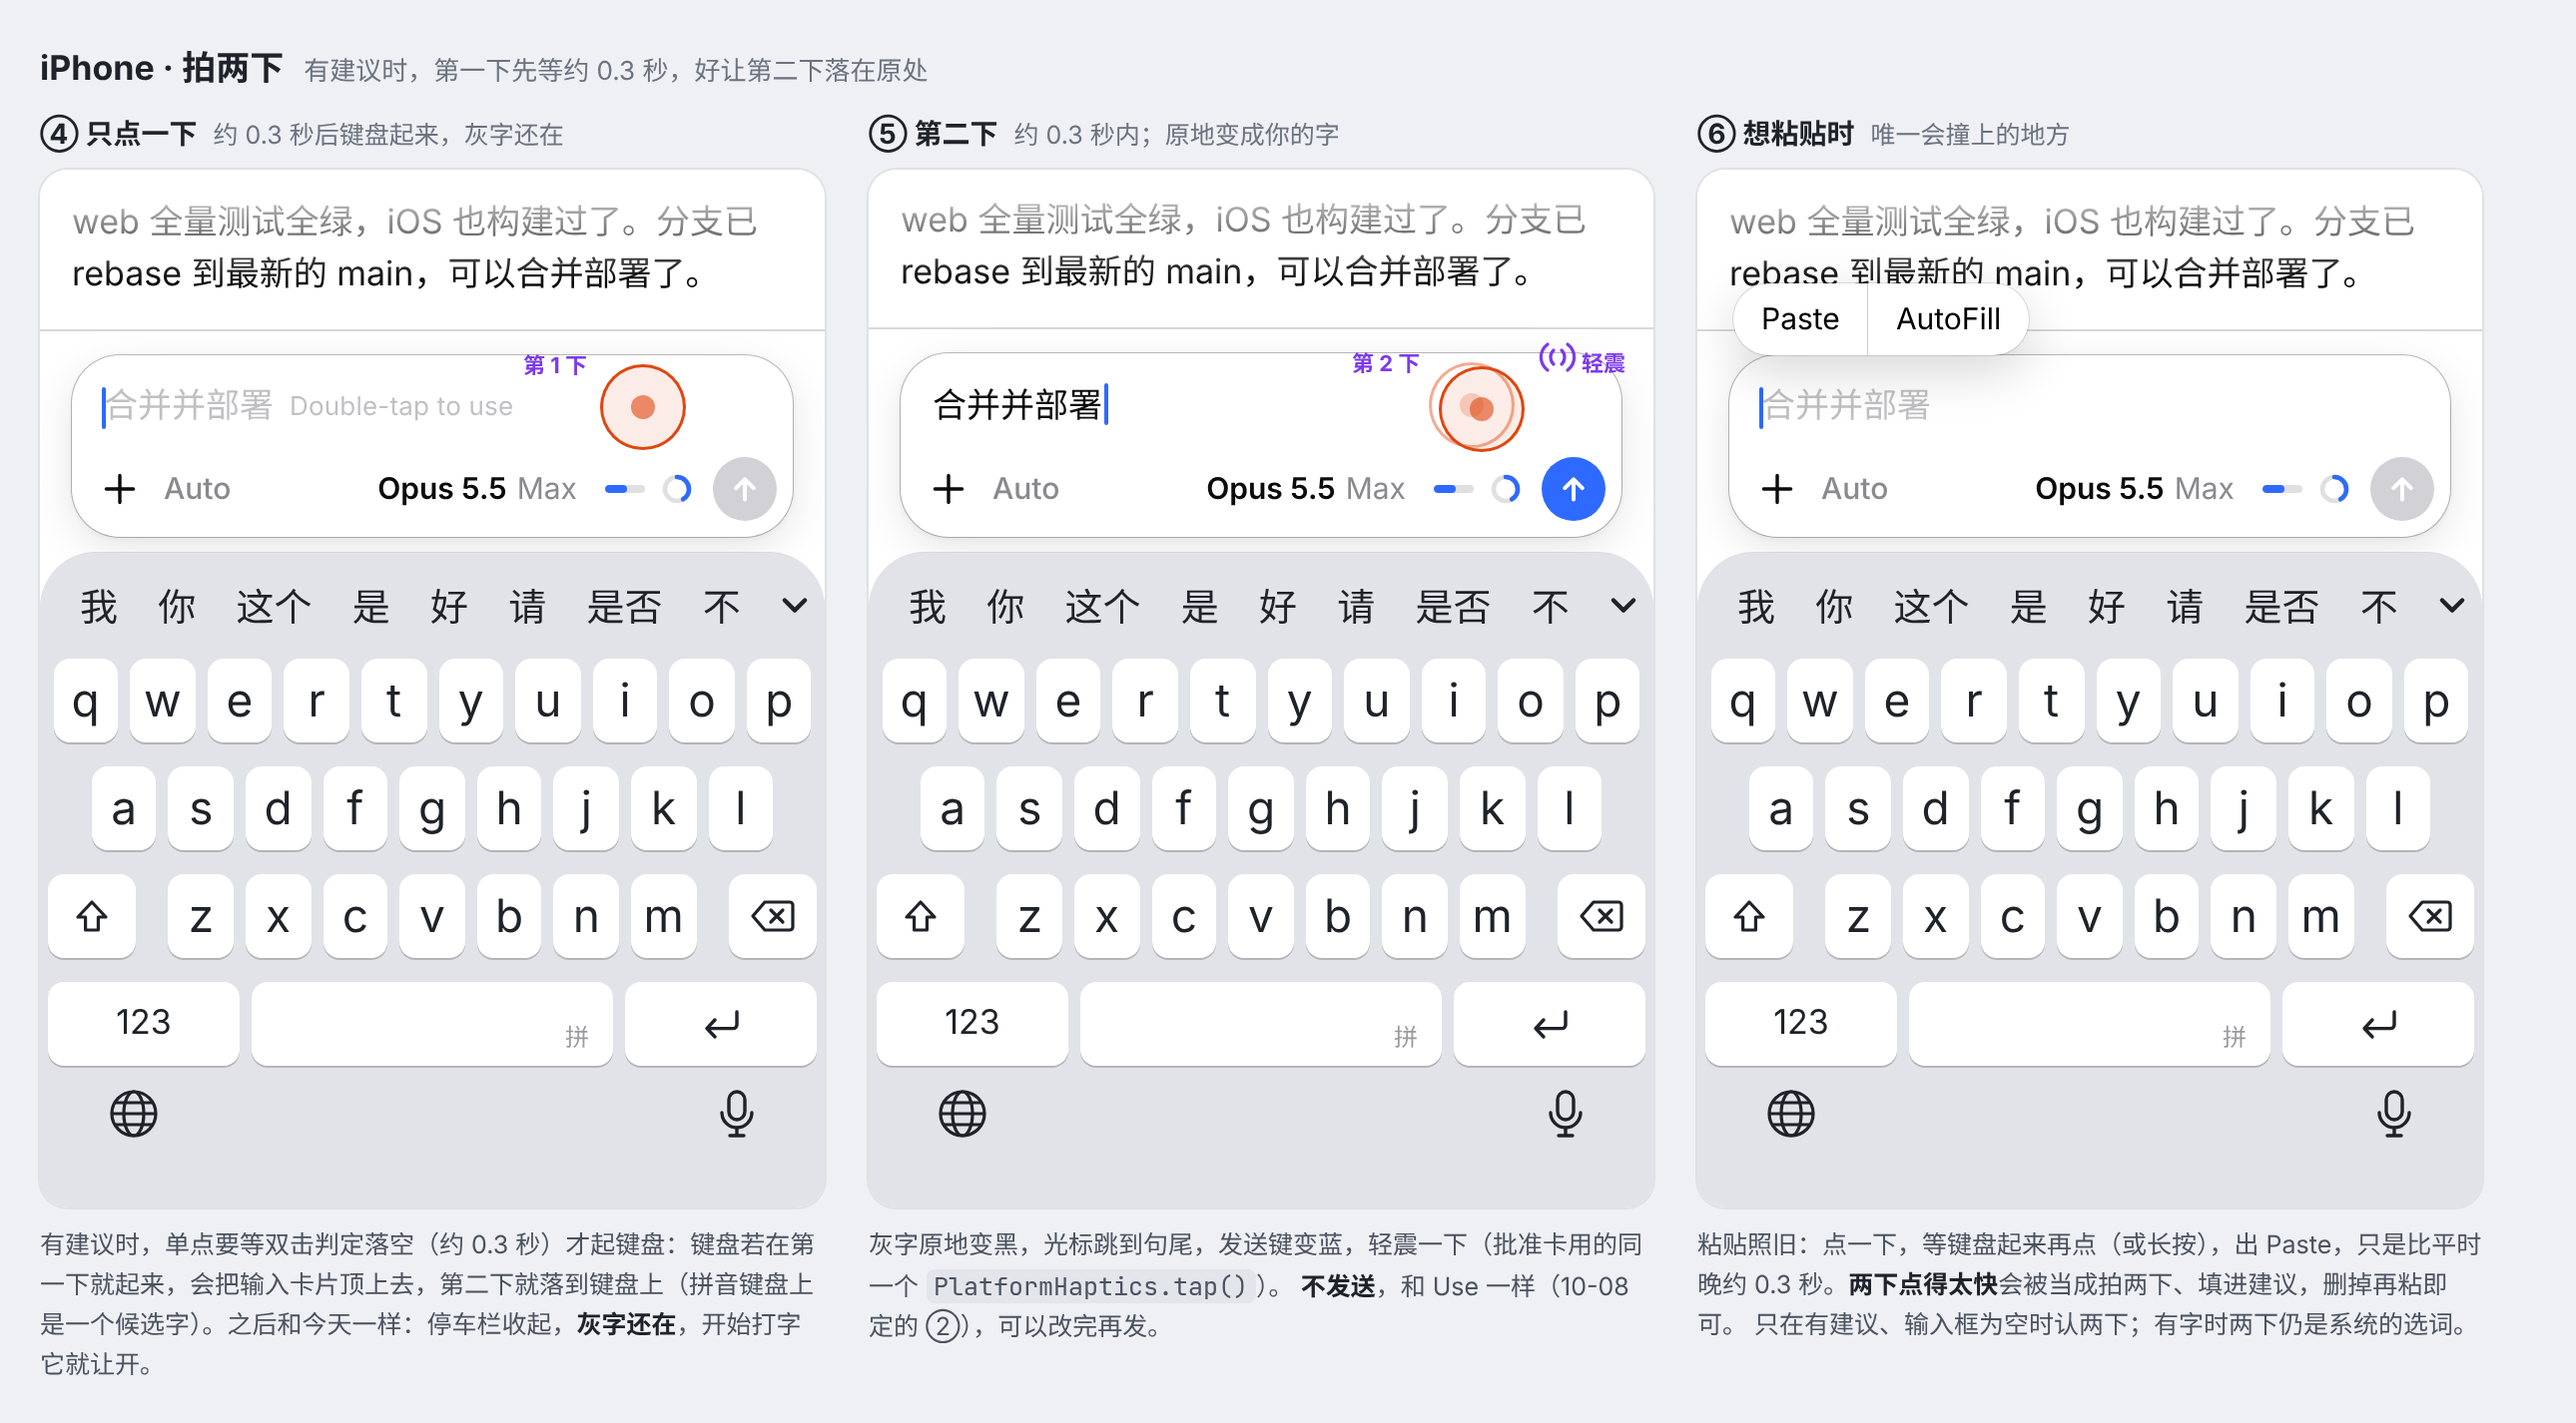
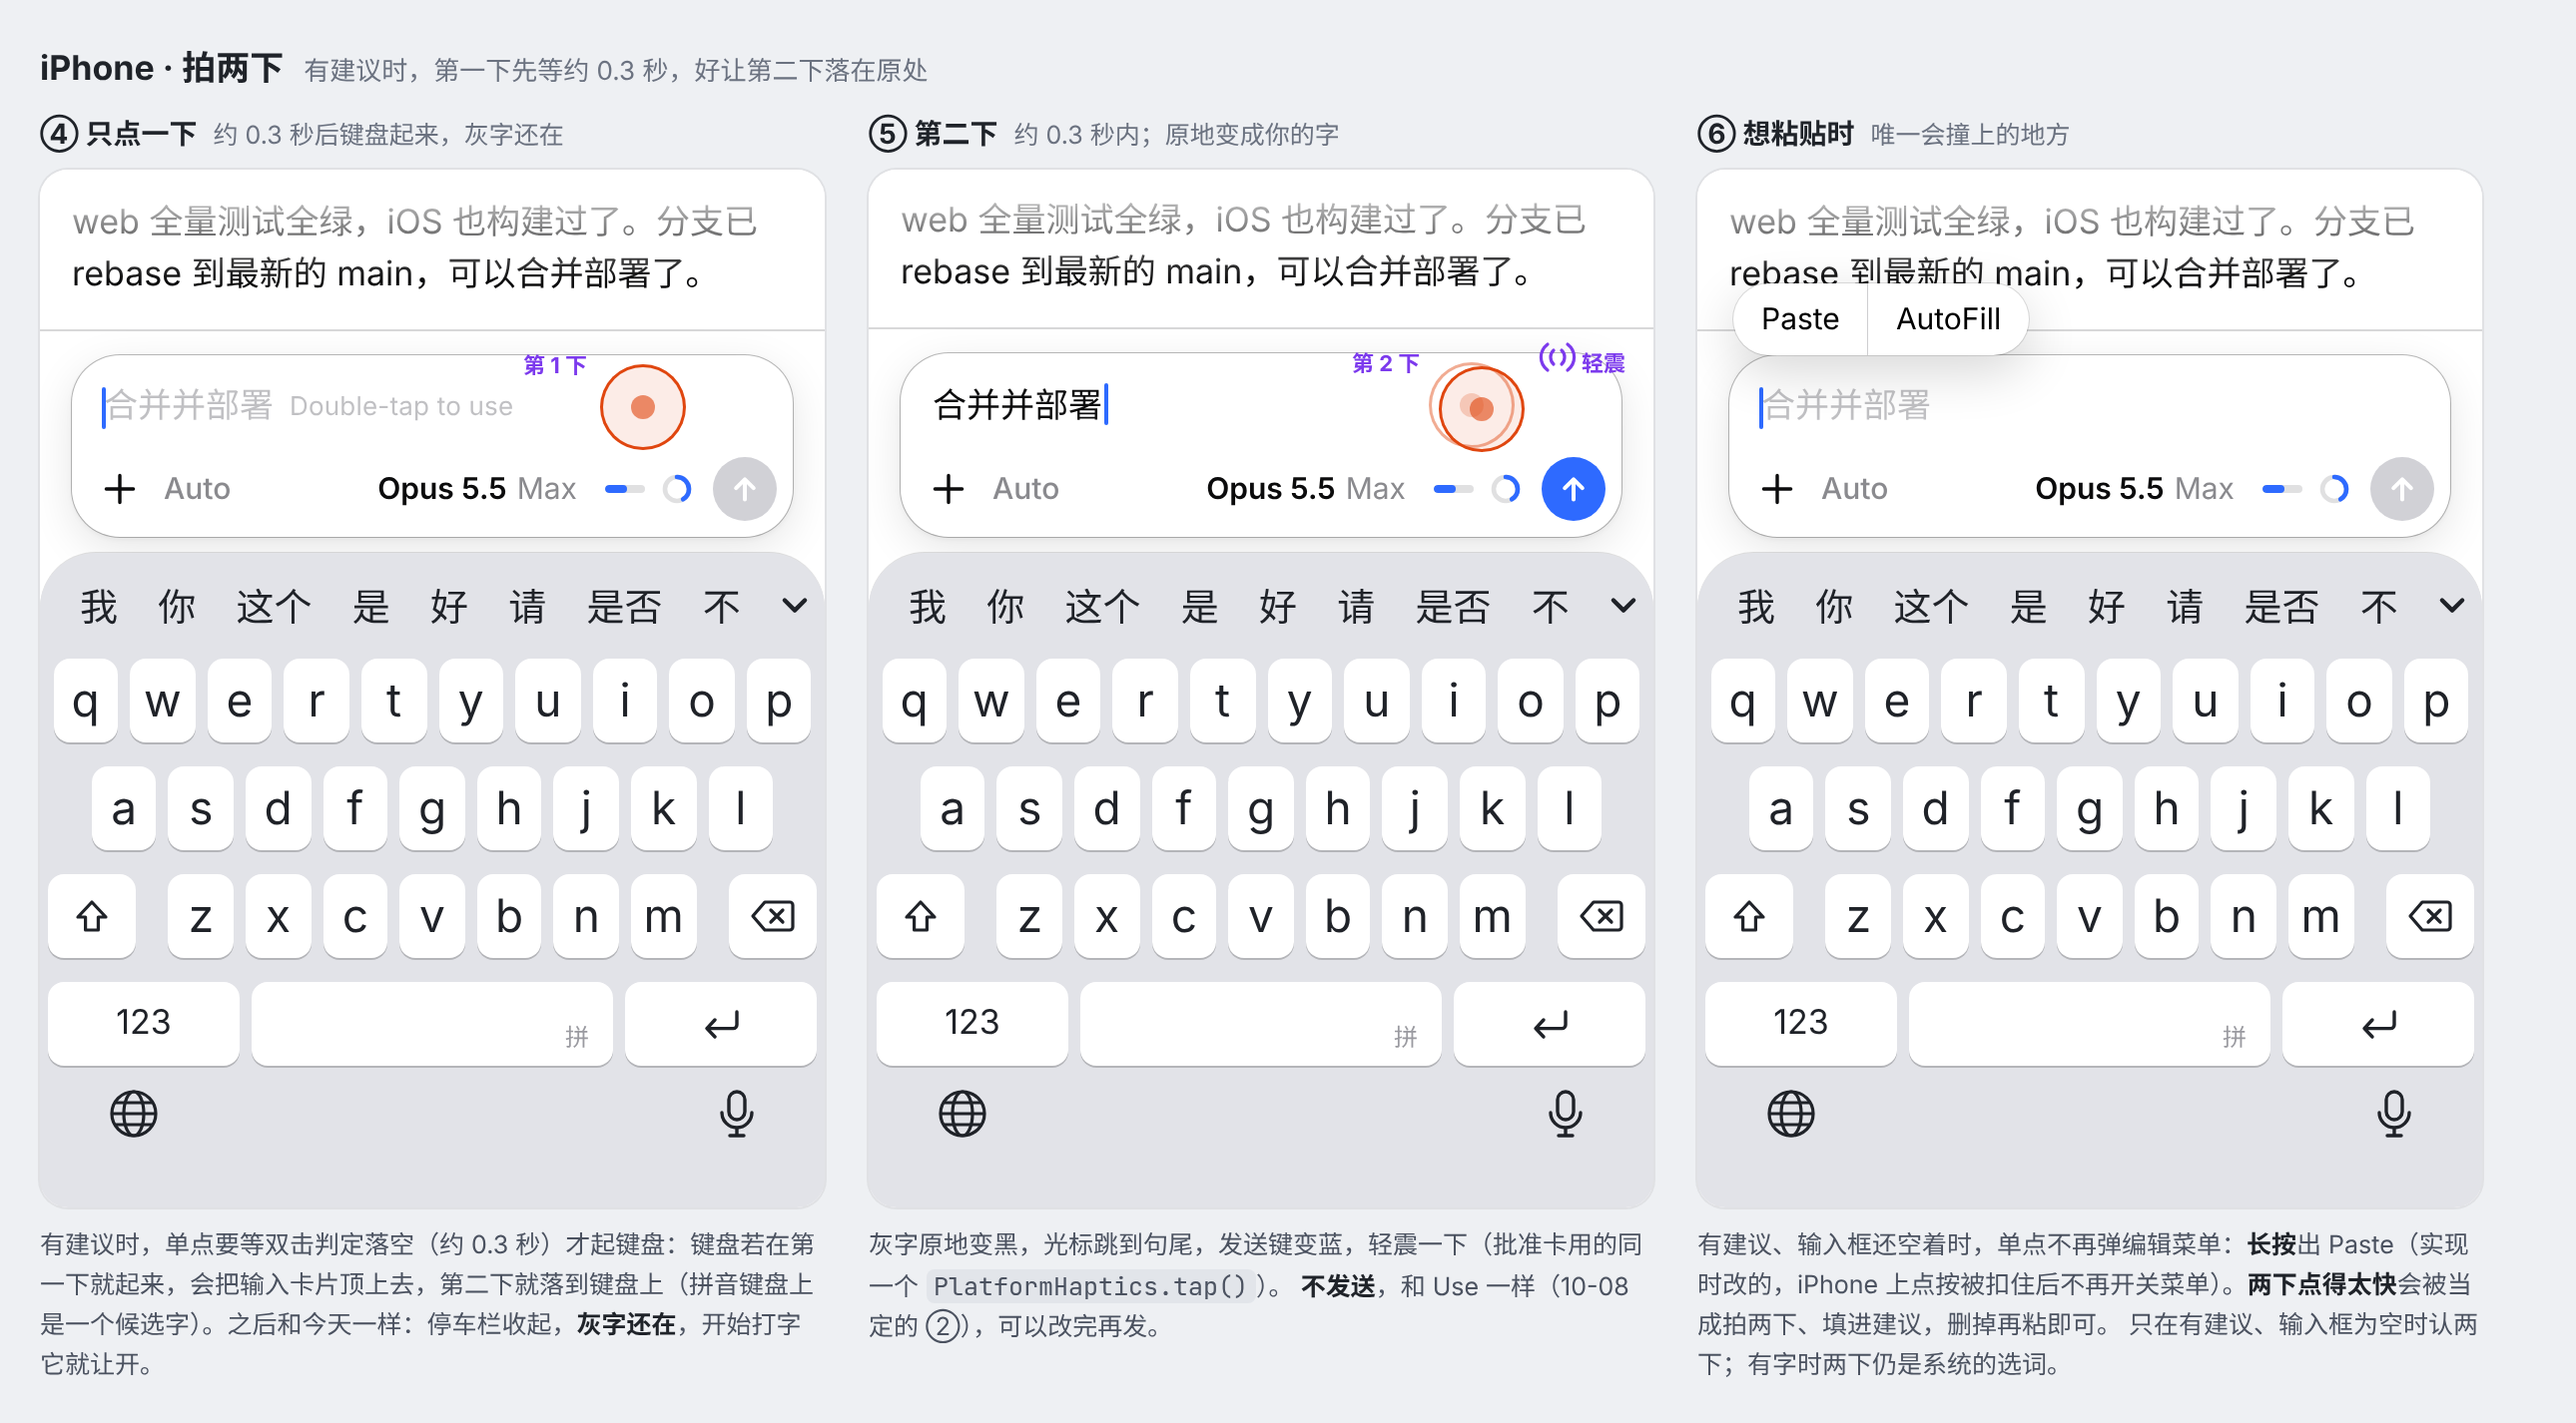
docs(composer): paste into the empty composer with a press and hold while a guess shows
The CI probe listed an editing UITextView's gestures on iOS 26: its single
tap is a UITextMultiTapRecognizer, not a UITapGestureRecognizer, and it is
what raced the double-tap. Held back by the double-tap it still focuses
the field but no longer toggles the edit menu, so while a suggestion is
offered Paste into the empty field is a press and hold. The code comment,
design doc §4.1/§9 and the board's ⑥ say so.

Changed region(s): [[0.6512, 0.864, 0.9612, 0.9874]]

diff --git a/src/macos/OrbitApp/Sources/OrbitApp/Views/ComposerView.swift b/src/macos/OrbitApp/Sources/OrbitApp/Views/ComposerView.swift
@@ -1639,10 +1639,11 @@ private struct GrowingTextEditor: UIViewRepresentable {
         // first tap that raised the keyboard at once would lift the composer with it, and the second
         // would land on the keyboard (typing a key or a candidate) instead of the field; a second tap
         // the field took too would drop the caret into the words just filled in, or open the edit
-        // menu. So the keyboard comes up a double-tap interval late then, and a tap on a field already
-        // being edited (the edit menu, Paste) lands as late. An editing field's taps are not all
-        // `UITapGestureRecognizer`s — its tap-and-a-half selection gesture begins on the second press,
-        // and won the race on a CI run — so any of its gestures named for a tap waits too.
+        // menu. So the keyboard comes up a double-tap interval late then. The field's own taps are not
+        // all `UITapGestureRecognizer`s — on iOS 26 its single tap is a `UITextMultiTapRecognizer`,
+        // which won the second tap on a CI run — so any of its gestures named for a tap waits too.
+        // Held back, the multi-tap still focuses the field but no longer toggles the edit menu: while a
+        // guess is on offer, Paste into the empty field is a press and hold (the loupe's, untouched).
         func gestureRecognizer(_ gestureRecognizer: UIGestureRecognizer,
                                shouldBeRequiredToFailBy other: UIGestureRecognizer) -> Bool {
             guard gestureRecognizer === doubleTap, let field = gestureRecognizer.view,

diff --git a/docs/mocks/prompt-suggestion-double-tap/01-board.html b/docs/mocks/prompt-suggestion-double-tap/01-board.html
@@ -374,7 +374,7 @@
       </div></div>
       <div data-tpl="keyboard"></div>
     </div>
-    <div class="legend">粘贴照旧：点一下，等键盘起来再点（或长按），出 Paste，只是比平时晚约 0.3 秒。<b>两下点得太快</b>会被当成拍两下、填进建议，删掉再粘即可。
+    <div class="legend">有建议、输入框还空着时，单点不再弹编辑菜单：<b>长按</b>出 Paste（实现时改的，iPhone 上点按被扣住后不再开关菜单）。<b>两下点得太快</b>会被当成拍两下、填进建议，删掉再粘即可。
       只在有建议、输入框为空时认两下；有字时两下仍是系统的选词。</div>
   </div>
 </div>
@@ -493,8 +493,8 @@
     <h3 class="more">代价</h3>
     <ul>
       <li>手势看不见：靠提示小字教一次，每台设备各一次（记在本机）</li>
-      <li>有建议时单点晚约 0.3 秒（起键盘、Paste），否则第二下会落到刚起来的键盘上（④）</li>
-      <li>想粘贴时两下点太快，会填进建议（⑥）</li>
+      <li>有建议时单点晚约 0.3 秒起键盘，否则第二下会落到刚起来的键盘上（④）</li>
+      <li>有建议、输入框为空时，粘贴改为长按（⑥）</li>
       <li>读屏走动作、不走手势（⑨）</li>
     </ul>
   </div>

diff --git a/src/macos/OrbitKit/Tests/OrbitKitTests/PromptSuggestionTests.swift b/src/macos/OrbitKit/Tests/OrbitKitTests/PromptSuggestionTests.swift
@@ -181,7 +181,7 @@ final class PromptSuggestionTests: XCTestCase {
         XCTAssertTrue(field.contains("context.coordinator.doubleTap?.isEnabled = suggestion != nil"),
                       "no guess, no double-tap: the field's taps are its own, with no wait")
         XCTAssertTrue(field.contains("return other is UITapGestureRecognizer || NSStringFromClass(type(of: other)).contains(\"Tap\")"),
-                      "with one, the field's taps wait on the double-tap, its tap-and-a-half selection gesture included")
+                      "with one, the field's taps wait on the double-tap, UIKit's multi-tap text gesture included")
         XCTAssertTrue(field.contains("shouldRecognizeSimultaneouslyWith other: UIGestureRecognizer) -> Bool {\n            gestureRecognizer === doubleTap"),
                       "and nothing of the field's that begins stops it")
         XCTAssertTrue(field.contains("UIAccessibilityCustomAction(name: \"Use suggestion\")"), "VoiceOver's way to take it")

diff --git a/docs/prompt-suggestions-design.md b/docs/prompt-suggestions-design.md
@@ -238,8 +238,9 @@ transcript reducer 里加三行，按 seq 顺序回放，结果天然正确：
 - **拍两下**：在输入框那一行拍两下，把文字填进输入框，光标放在末尾，键盘起来，轻震一下；**不发送**。
   可以接着改，也可以直接点发送。有建议时，输入框自己的点按要等双击判定落空（约 0.3 秒）才生效：键盘若在第一下
   就起来，会把输入卡片一起顶上去，第二下就落到键盘上了（拼音键盘上是一个候选字）。所以只点一下时键盘晚约 0.3 秒
-  起来，照旧是自己打字；输入框已经在编辑时，单点（光标、Paste 菜单）也晚这么多：想粘贴就点一下、等一下再点，
-  或者长按。两下点得太快会被当成拍两下、填进建议。效果图 ④ 画的是「第一下就起键盘」，实现时因为上面的原因改了。
+  起来，照旧是自己打字。输入框已经在编辑、又还空着时，单点不再弹编辑菜单（UIKit 的点按手势被扣住后只管聚焦，
+  不再开关菜单），想粘贴就长按，长按照旧出 Paste。效果图 ④ 画的是「第一下就起键盘」、⑥ 画的是「点两次出
+  Paste」，实现时因为上面的原因都改了。
 - **VoiceOver**：双击是它自己的「激活」，所以输入框读出「Suggested reply: ….」，并带一个 **Use suggestion**
   动作（上下滑选中，再双击）。
 - **消失**：输入框一有字就不显示，删空后如果它仍是当前建议就回来，和 placeholder 一个规矩；发出任何消息后作废。
@@ -248,7 +249,9 @@ transcript reducer 里加三行，按 seq 顺序回放，结果天然正确：
   `ComposerLogic.offeredPromptSuggestion`（OrbitKit）判断；有建议时 placeholder 让空，`PromptSuggestionLine`
   叠在输入框第一行上：灰字单行截断，整行不接收点按，点按都落进输入框。拍两下由 `GrowingTextEditor` 的
   UITextView 上一个双击手势接：只在有建议时启用；启用时输入框自己的点按手势都要等它落空
-  （`gestureRecognizer(_:shouldBeRequiredToFailBy:)`）。填入走现成的 `console.composerText` + `requestFocus()`
+  （`gestureRecognizer(_:shouldBeRequiredToFailBy:)`，按类名含 Tap 算：iOS 26 上输入框自己的单击是
+  `UITextMultiTapRecognizer`，不是 `UITapGestureRecognizer`，CI 上抢到过第二下），它自己则和输入框的其他手势
+  （长按的放大镜等）同时识别。填入走现成的 `console.composerText` + `requestFocus()`
   （加 `PlatformHaptics.tap()`），不新开发送路径。
 
 ### 4.2 方案乙（备选）与为什么不选丙
@@ -397,5 +400,6 @@ transcript reducer 里加三行，按 seq 顺序回放，结果天然正确：
 
 拍两下和 Use 一样只填不发（§9-②不变）。Mac App 和桌面网页有键盘，不动（Tab）。
 
-实现时偏离效果图一处：④ 画的是第一下就起键盘。键盘一起，输入卡片跟着上移，快速的第二下会落到键盘上，
-所以有建议时第一下先等双击判定（约 0.3 秒）再起键盘（§4.1）。
+实现时偏离效果图两处：④ 画的是第一下就起键盘。键盘一起，输入卡片跟着上移，快速的第二下会落到键盘上，
+所以有建议时第一下先等双击判定（约 0.3 秒）再起键盘（§4.1）。⑥ 画的是点两次出 Paste；iPhone 上输入框的点按
+被扣住后不再开关编辑菜单，有建议、输入框为空时粘贴改为长按（§4.1）。
